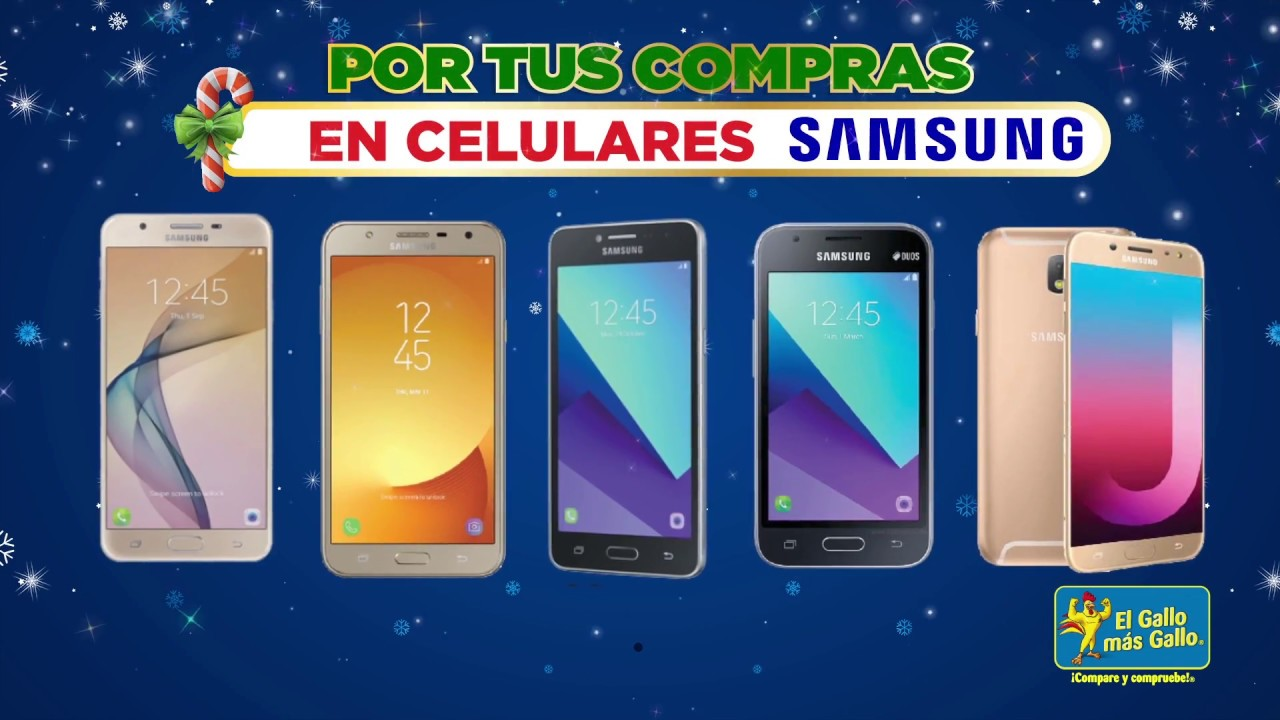
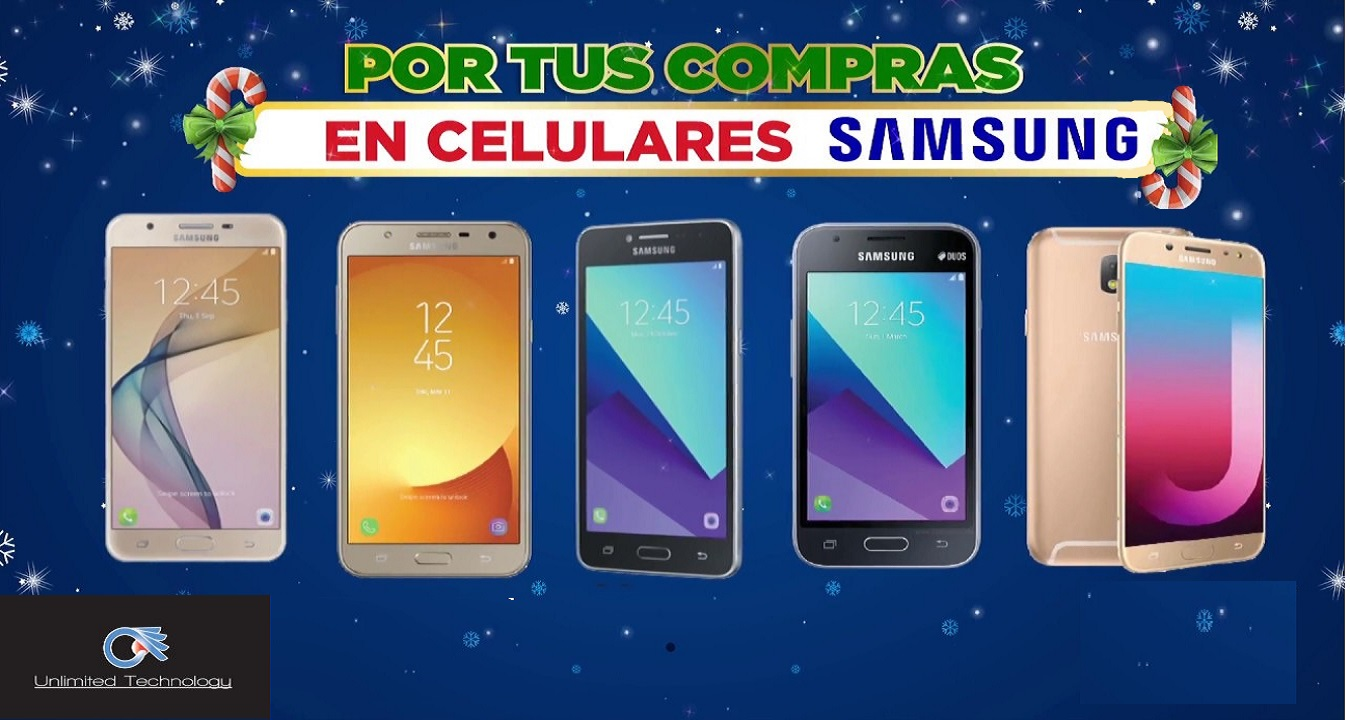
se modifican lasimagenes del slider

diff --git a/docs/vista/terminos y condiciones.html b/docs/vista/terminos y condiciones.html
@@ -17,10 +17,57 @@
     <title>unlimited tecnology</title>
 </head>
 <body>
- <header class="barra">
+ 
+    <header class="logo">
+        <img src="../imagenes/2.jpg" alt="logoempresa">
+        		
+		 <h1 class="titulo">UNLIMITED TECNOLOGY</h1>
+		 
+		 <div class="buscar">
+			<input type="text"  placeholder="Buscar" required>
+			<div class="btn">
+				<i class="fas fa-search icon"></i>
+			</div>
+		</div>
+
+		 <a class="iniciar" href="#">iniciar sesion</a>
+		 <a class="registrar" href="#">registrarse</a>
+
+		
+       
+         <input type="checkbox" id="css3menu-switcher" class="c3m-switch-input">
+               <ul id="css3menu1" class="topmenu">
+	                <li class="switch"><label onclick="" for="css3menu-switcher"></label></li>
+	                <li class="topmenu"><a href="inicio.html" target="marco" style="height:23px;line-height:23px;">inicio</a></li>
+	                <li class="toproot"><a href="#" target="marco" style="height:23px;line-height:23px;"><span>productos</span></a>
+	                    <ul>
+		                    <li><a href="#" target="marco">celulares</a></li>
+		                    <li><a href="#" target="marco">computadores</a></li>
+		                    <li><a href="#" target="marco">herramientas</a></li>
+		                    <li><a href="#" target="marco">componentes</a></li>
+		                    <li><a href="#" target="marco">repuestos</a></li>
+		                    <li><a href="#" target="marco">cableado</a></li>
+	                   </ul>
+	                </li>
+	<li class="toproot"><a href="#" target="marco" style="height:23px;line-height:23px;"><span>servicios</span></a>
+	<ul>
+		<li><a href="#" target="marco">instalaciones</a></li>
+		<li><a href="#" target="marco">mantenimiento</a></li>
+		<li><a href="#" target="marco">proyectos</a></li>
+	</ul></li>
+	<li class="toproot"><a href="#" target="marco" style="height:23px;line-height:23px;"><span>Quienes somos?</span></a>
+	<ul>
+		<li><a href="#" target="marco">vision y mision</a></li>
+		<li><a href="#" target="marco">valores calidad</a></li>
+		<li><a href="#" target="marco">Que hacemos?</a></li>
+	</ul></li>
+	<li class="toplast"><a href="#" target="marco" style="height:23px;line-height:23px;">contactenos</a></li>
+    </ul><p class="_css3m"><a href="http://css3menu.com/">drop down menu html</a> by Css3Menu.com</p>
+
+	</header>
 
  
- </header>
+ 
   
  <div class="especificartermino">
      <h1>Política de Términos y Condiciones</h1> <br> <br>

diff --git a/docs/vista/inicio.html b/docs/vista/inicio.html
@@ -37,7 +37,7 @@
          <input type="checkbox" id="css3menu-switcher" class="c3m-switch-input">
                <ul id="css3menu1" class="topmenu">
 	                <li class="switch"><label onclick="" for="css3menu-switcher"></label></li>
-	                <li class="topmenu"><a href="section.html" target="marco" style="height:23px;line-height:23px;">inicio</a></li>
+	                <li class="topmenu"><a href="inicio.html" target="marco" style="height:23px;line-height:23px;">inicio</a></li>
 	                <li class="toproot"><a href="#" target="marco" style="height:23px;line-height:23px;"><span>productos</span></a>
 	                    <ul>
 		                    <li><a href="#" target="marco">celulares</a></li>
